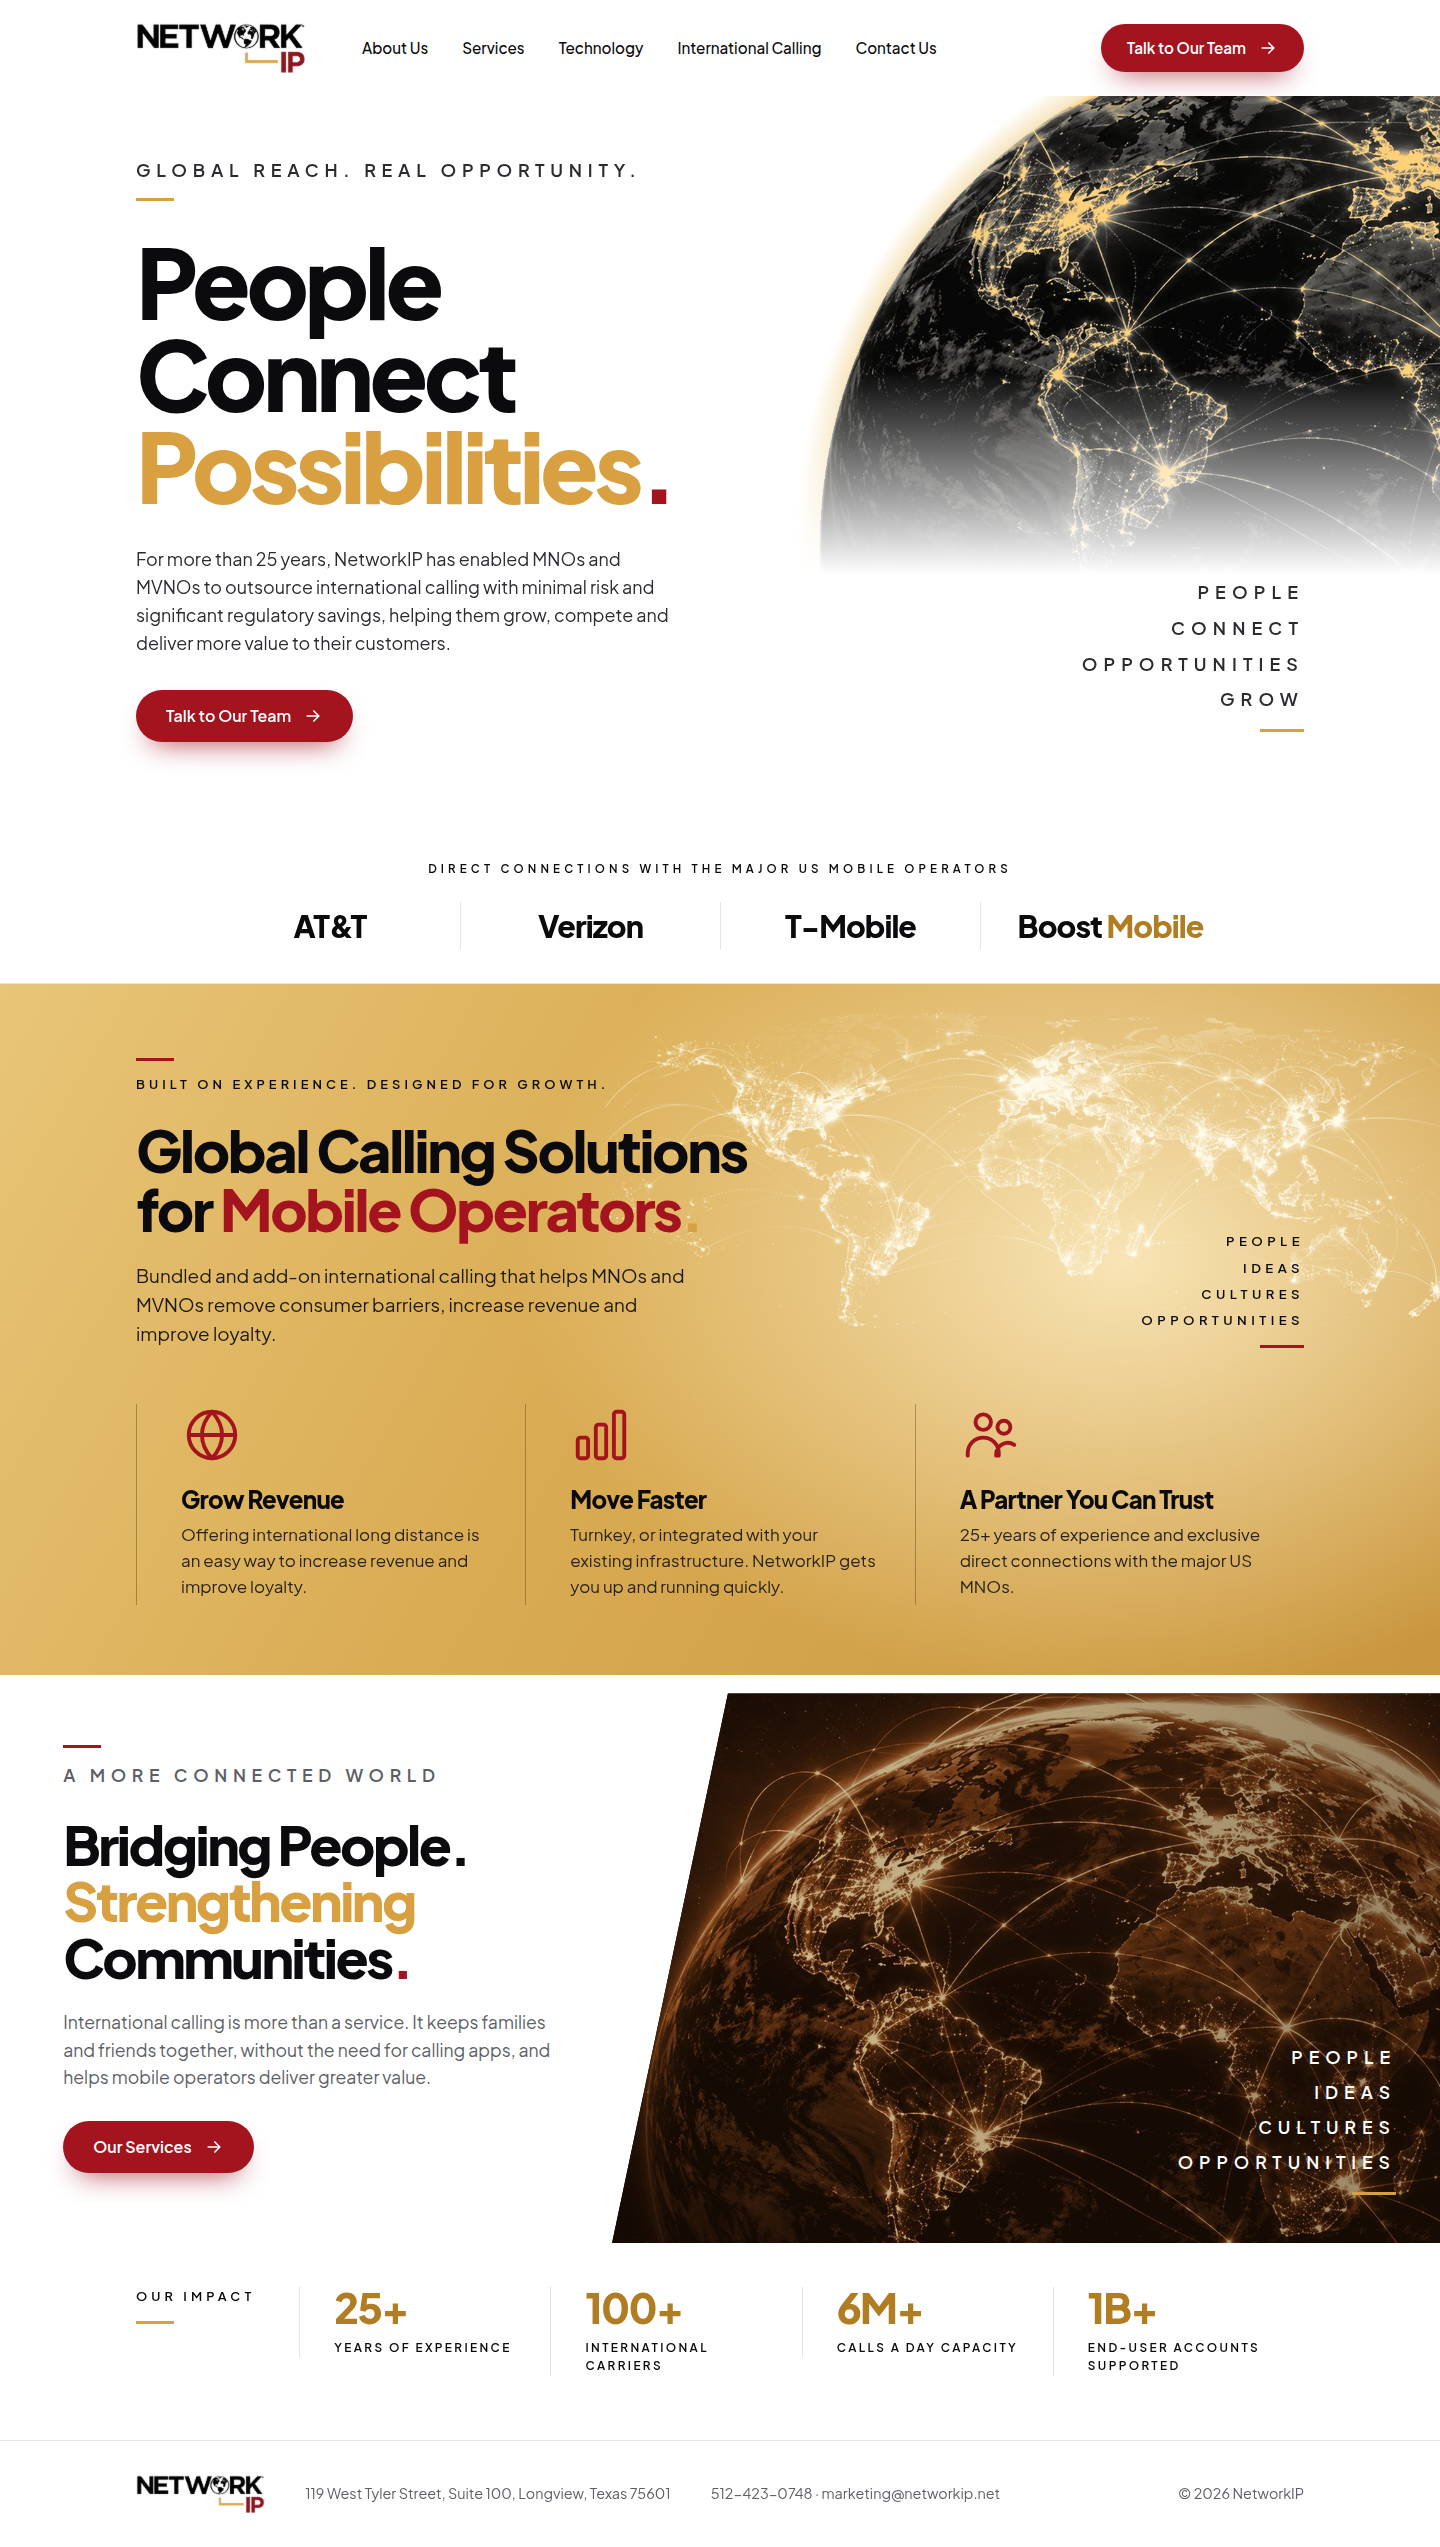
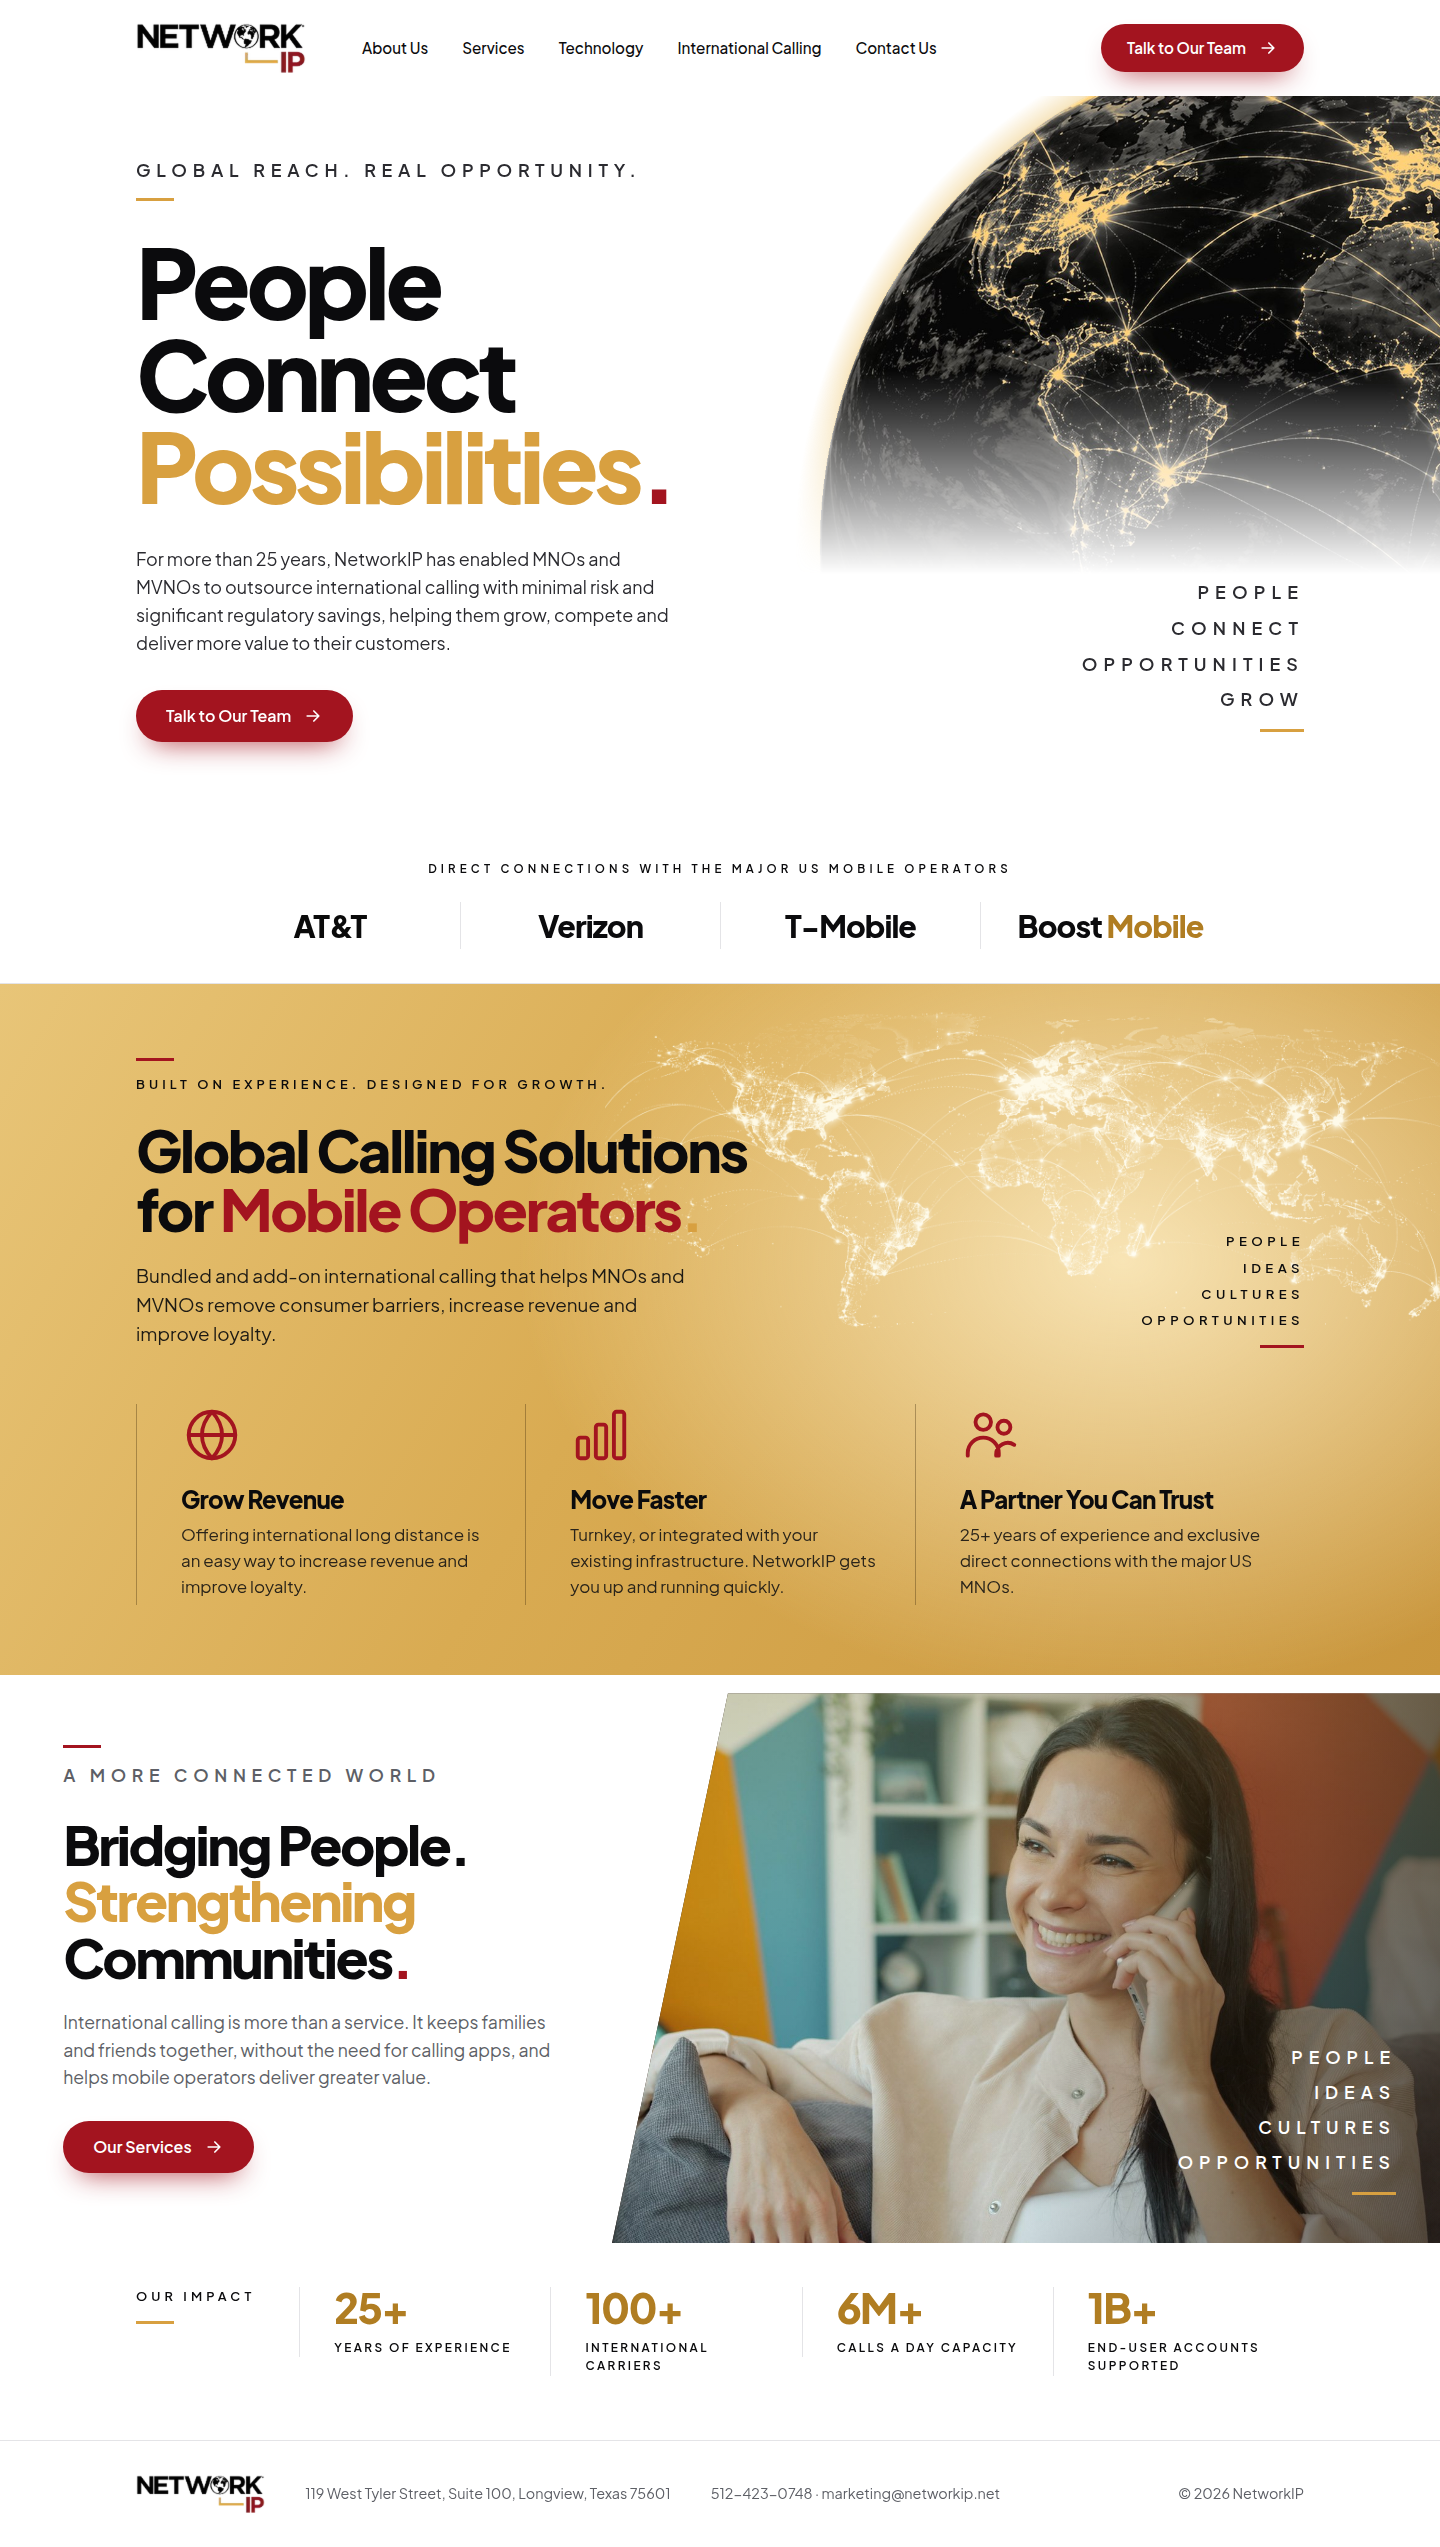
Concept X: replace the second globe with a phone-call photo
Use a free Unsplash photo (Vitaly Gariev, Unsplash License) of a woman on a
phone call in the angled photo panel, so the page has one globe.

Claude-Session: https://claude.ai/code/session_01GA8kkZxafSRbZUr6LdWSLq

Changed region(s): [[0.4062, 0.6514, 1.0, 0.8995]]

diff --git a/design/networkip-redesign/src/24-people-connect.html b/design/networkip-redesign/src/24-people-connect.html
@@ -81,8 +81,8 @@ p{margin:0}
 .bridge h2{font-size:clamp(2.3rem,1.5rem + 2.4vw,3.4rem);margin:26px 0 24px;letter-spacing:-.045em;line-height:1.04}
 .bridge p{color:var(--muted);font-size:1.1rem;max-width:28em}
 .bridge .btn{margin-top:30px}
-.bridge-photo{position:relative;clip-path:polygon(14% 0,100% 0,100% 100%,0 100%);background:#1a0d05 url('img-white/globe-sunrise.jpg') 30% 40%/cover no-repeat;margin-top:18px}
-.bridge-photo::before{content:"";position:absolute;inset:0;background:linear-gradient(90deg,rgba(26,13,5,.15),rgba(26,13,5,.45))}
+.bridge-photo{position:relative;clip-path:polygon(14% 0,100% 0,100% 100%,0 100%);background:#2a1a0c url('img-white/person-phone.jpg') 40% 30%/cover no-repeat;margin-top:18px}
+.bridge-photo::before{content:"";position:absolute;inset:0;background:linear-gradient(180deg,rgba(216,160,64,.18),rgba(216,160,64,.05) 50%,rgba(26,13,5,.0)),linear-gradient(90deg,rgba(26,13,5,0) 45%,rgba(26,13,5,.6) 100%);mix-blend-mode:normal}
 .bridge-photo .side-words{position:absolute;right:44px;bottom:48px;color:#fff}
 
 /* Impact */

diff --git a/design/networkip-redesign/README.md b/design/networkip-redesign/README.md
@@ -24,7 +24,7 @@ Three homepage directions for https://www.networkip.net/, all built from the cur
 | `17-hero-white-curve-*.png` | **Q: Big hero with a curved edge (round 7).** The hero ends in a curved white edge. Below it, white and pale-blue sections with soft-shadow cards, blue icons and red buttons, and a white footer. |
 | `18-hero-all-white-*.png` | **R: Big hero, all-white page (round 7).** The most white of the set: only the hero is dark. Minimal service columns, red accents, a boxed contact call to action and a white footer. |
 | `19-23-gold-hero-*.png` | **S–W: Gold versions of N–R (round 8).** The same five layouts with more of the logo's gold: gold buttons, a gold "Mobile Growth" in the headline, gold stat numbers, icons, section-label lines, a gold line under the hero and a gold rule over the footer. A deeper gold is used for text on white so it stays readable. 19 = N (blue), 20 = O (red), 21 = P (overlapping card), 22 = Q (curved edge, now gold-rimmed), 23 = R (all white). |
-| `24-people-connect-*.png` | **X: "People Connect Possibilities" (round 9).** Built to match the reference layout the client shared: white page, black-and-gold globe, gold band with world-map lights, a sunrise image panel, red pill buttons and an impact row. Plus Jakarta Sans. Partner logos and unverified figures in the reference were replaced with the four US MNOs NetworkIP connects to and the site's published numbers. The sunrise panel stands in for a licensed photo. |
+| `24-people-connect-*.png` | **X: "People Connect Possibilities" (round 9).** Built to match the reference layout the client shared: white page, black-and-gold globe, gold band with world-map lights, a sunrise image panel, red pill buttons and an impact row. Plus Jakarta Sans. Partner logos and unverified figures in the reference were replaced with the four US MNOs NetworkIP connects to and the site's published numbers. The photo section uses "A woman smiling while talking on a cell phone" by Vitaly Gariev (https://unsplash.com/photos/a-woman-smiling-while-talking-on-a-cell-phone-3KgSopqBgYI), free under the Unsplash License. |
 
 `*-hero.png` is the first screen at 1440×900. `*-full.png` is the full page.
 
